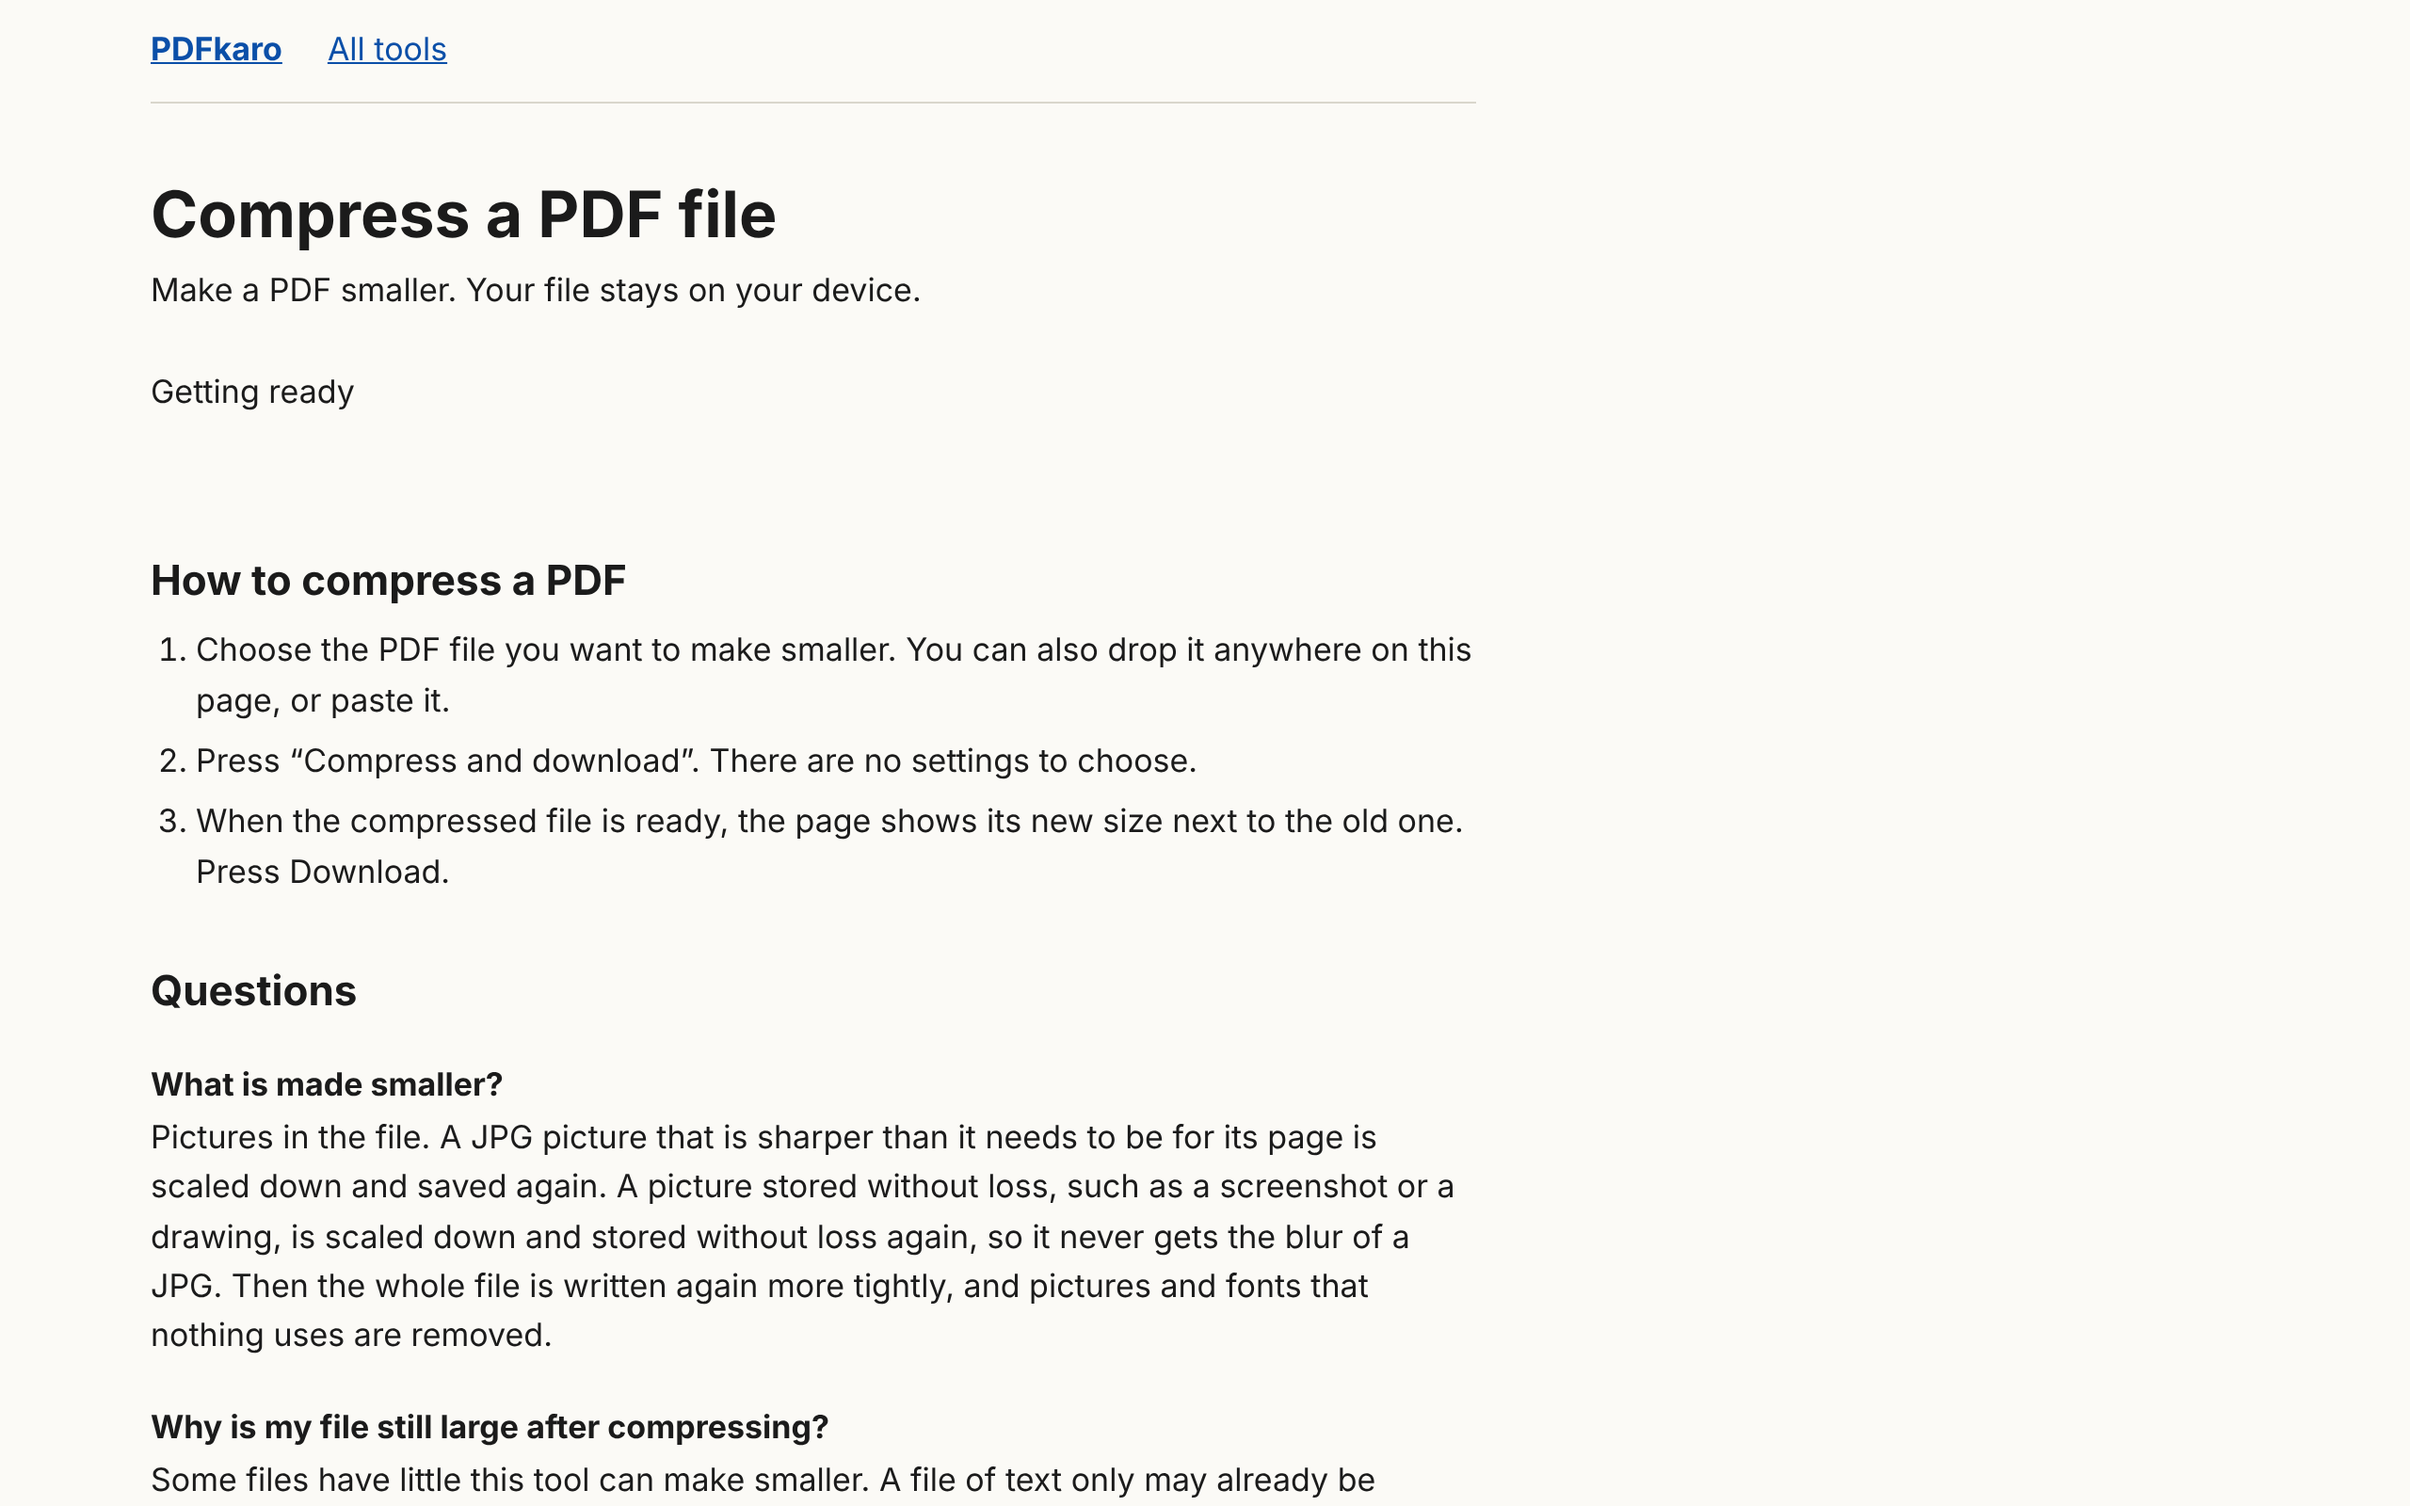
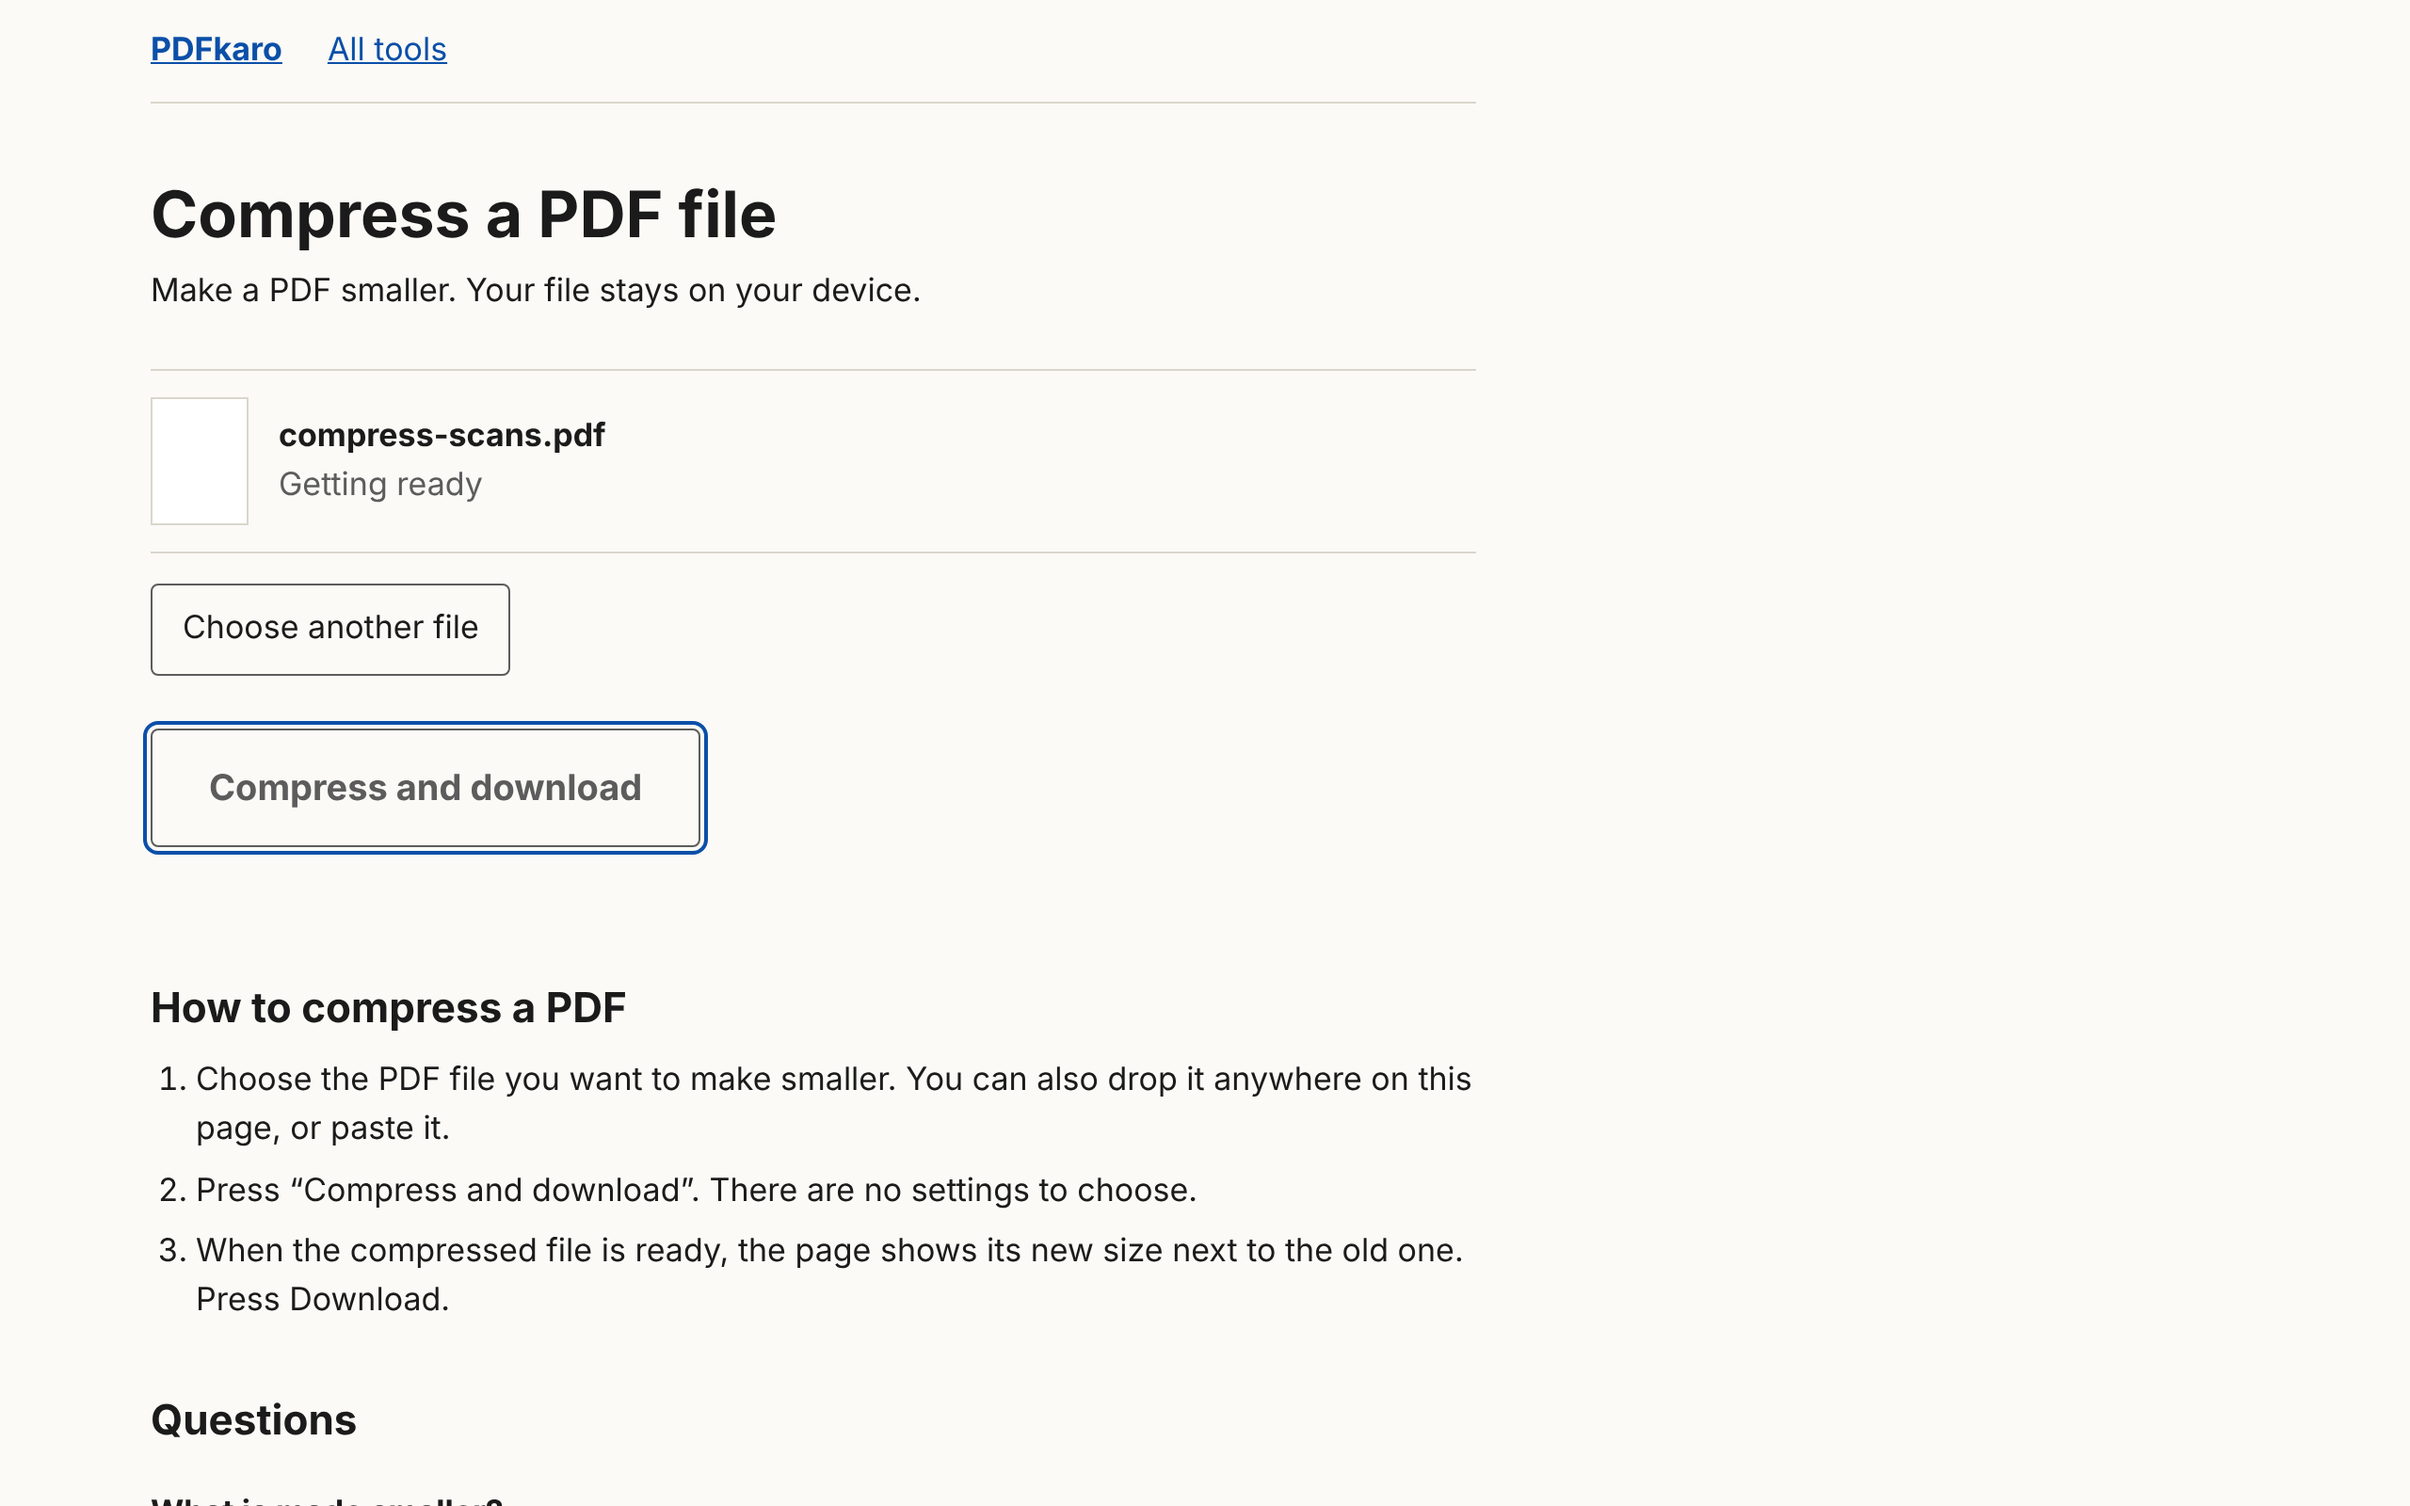
add-compress-pdf: stage 2 fixes
A too-large JPG is replaced only when the new one is smaller. One rule
for smaller, the engine's 99%: the page shows any file it gives, and
sizes that would read the same are said one unit finer. Left-alone
Flate pictures are described as keeping their dictionary and decoded
data. The dictionaries' JSON is capped at 64 MB while qpdf writes it.
Each raw batch's qpdf, and each written replacement, is let go early.
One-file tools say "Go back to your file". Hostile tests assert their
outcomes; a protected fixture with a large JPG; a guarded lookup; the
10% sentence in the page text; the focus after a pick, the Getting
ready screenshots, and the design, proposal, spec deltas (with
split-pdf) and tasks brought up to date.

Claude-Session: https://claude.ai/code/session_01Ht5n4xeEVAutobXrc7qGtN

diff --git a/tests/unit/compress-pdf.test.ts b/tests/unit/compress-pdf.test.ts
@@ -300,8 +300,9 @@ describe('a large JPG that would come out bigger', () => {
     const dict = { '/Subtype': '/Image', '/Width': 400, '/Height': 400, '/ColorSpace': '/DeviceRGB', '/BitsPerComponent': 8, '/Filter': '/DCTDecode' };
     // An encoder that writes far more than the old picture: quality 100 whatever it is asked for.
     const generous = { ...jpegCanvasMaker, jpeg: (target: unknown) => jpegCanvasMaker.jpeg(target, 1) };
-    const written = await generous.jpeg((() => { const c = createCanvas(300, 300); c.getContext('2d').drawImage(canvas, 0, 0, 300, 300); return c; })(), 1);
-    expect(written.length).toBeGreaterThan(raw.length);
+    const scaled = createCanvas(300, 300);
+    scaled.getContext('2d').drawImage(canvas, 0, 0, 300, 300);
+    expect((await generous.jpeg(scaled)).length).toBeGreaterThan(raw.length);
     expect(await shrinkJpeg(raw, dict, candidate, 300, pictureDecoder, generous)).toBeUndefined();
     // The same picture with an encoder that writes less is made smaller.
     const sparing = { ...jpegCanvasMaker, jpeg: (target: unknown) => jpegCanvasMaker.jpeg(target, 0.01) };

diff --git a/tests/unit/format.test.ts b/tests/unit/format.test.ts
@@ -143,4 +143,3 @@ describe('the result line', () => {
     expect(finerSize(1000, 900)).toBe('1,000 bytes');
   });
 });
-});

diff --git a/openspec/changes/add-compress-pdf/tasks.md b/openspec/changes/add-compress-pdf/tasks.md
@@ -56,13 +56,14 @@
 - [x] 7.1 The tool's no-upload test:
   - its exact allowlist from the build, including the engine, `qpdf-json`, `picture`, `resample` and `fflate`, with no pdf-lib;
   - a watched run on the scan fixture under a telling name where a JPG and a lossless picture are made smaller and the result is downloaded, with positive checks that the engine and `fflate` were fetched, that the picture code ran (found by its own sentences if the bundler puts it in the engine's chunk), and that the downloaded file's pictures have their new sizes and filters;
-  - runs on `rich.pdf`, `password.pdf`, `tagged.pdf` and `form.pdf`, one ending in "could not be made smaller";
+  - runs on `rich.pdf`, `password.pdf`, `tagged.pdf` and `form.pdf`, each downloaded, and `compress-packed.pdf`, ending in "could not be made smaller";
   - secrets for requests, headers, the console and the page title: the file name, its stem, the password, `rich.pdf`'s bookmark titles, attachment name and document title, `tagged.pdf`'s `SECRET-` markers, `form.pdf`'s field values, and the EXIF markers;
   - storage and traces; the address with no query and no hash.
 
 ## 8. Screenshots
 
 - [x] 8.1 Screenshots of `/compress-pdf` at 360px and 1280px, light and dark: empty, getting ready, listed, working, result with "was", "could not be made smaller", password, damaged, failed (out of memory), the 100 MB notice; check 200% text
+- [x] 8.2 Stage 2 fix round: a too-large JPG replaced only when smaller, with a test; one rule for "smaller" (the engine's 99%), with sizes that would read the same said one unit finer; left-alone Flate pictures described as the same dictionary and decoded data; focus after a pick and the status line in the tool-page delta; the dictionaries' JSON capped while qpdf writes it; hostile tests assert their outcomes; a guarded lookup; a protected fixture with a large JPG; batches and replacements let go early; "Go back to your file" for one-file tools (with the split-pdf delta); the 10% sentence in the page text; screenshots of "Getting ready" retaken
 
 ## 9. Checks and review
 
